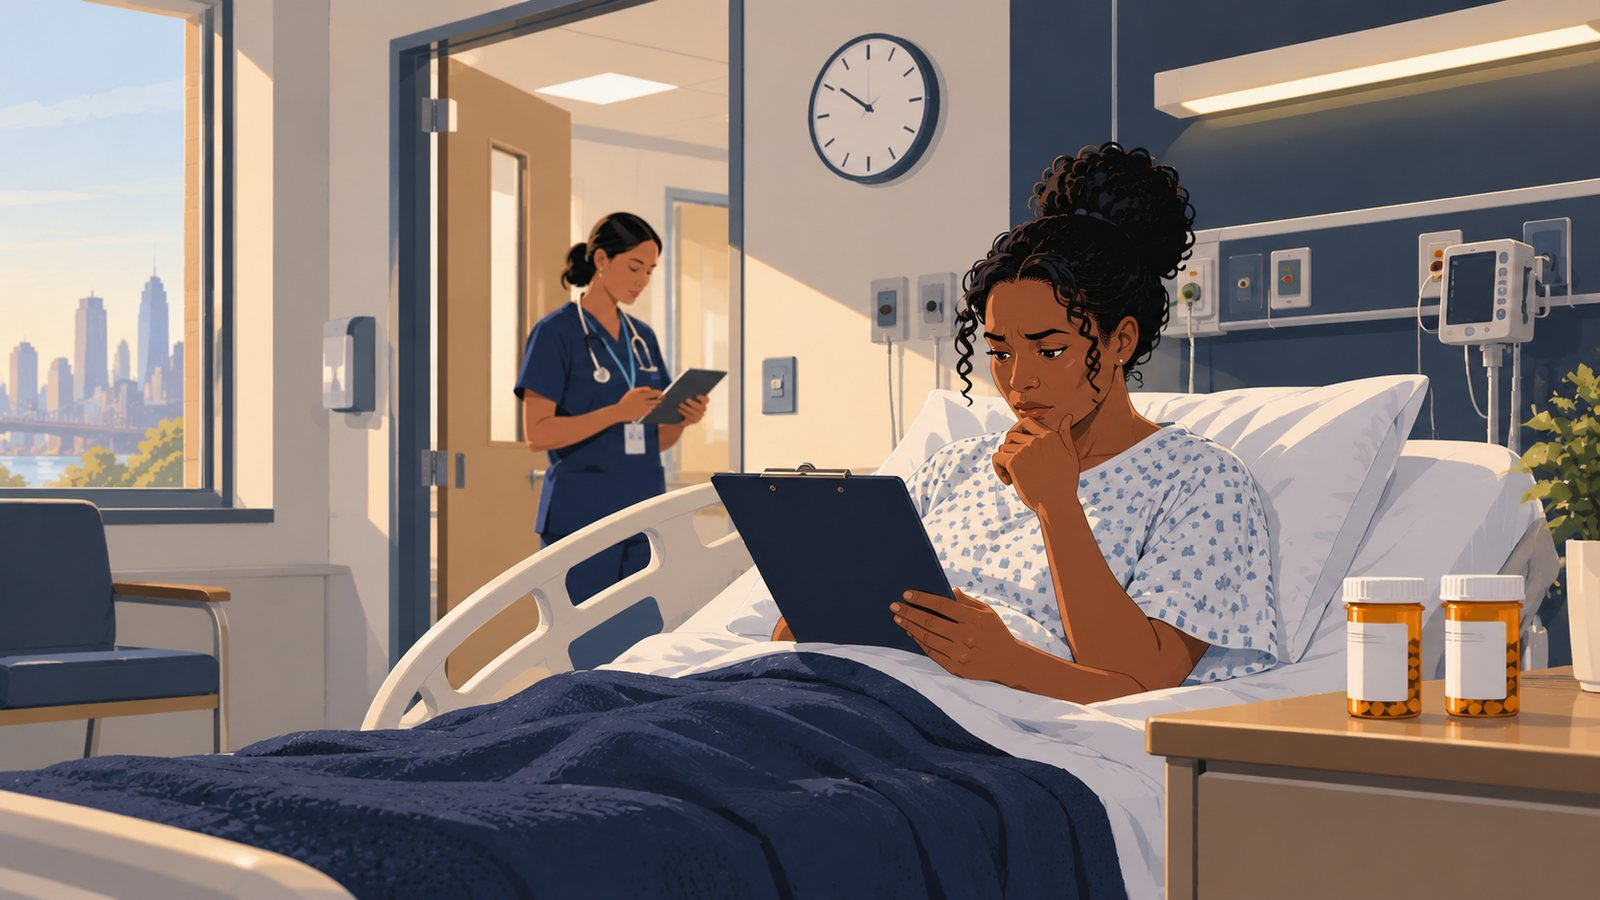
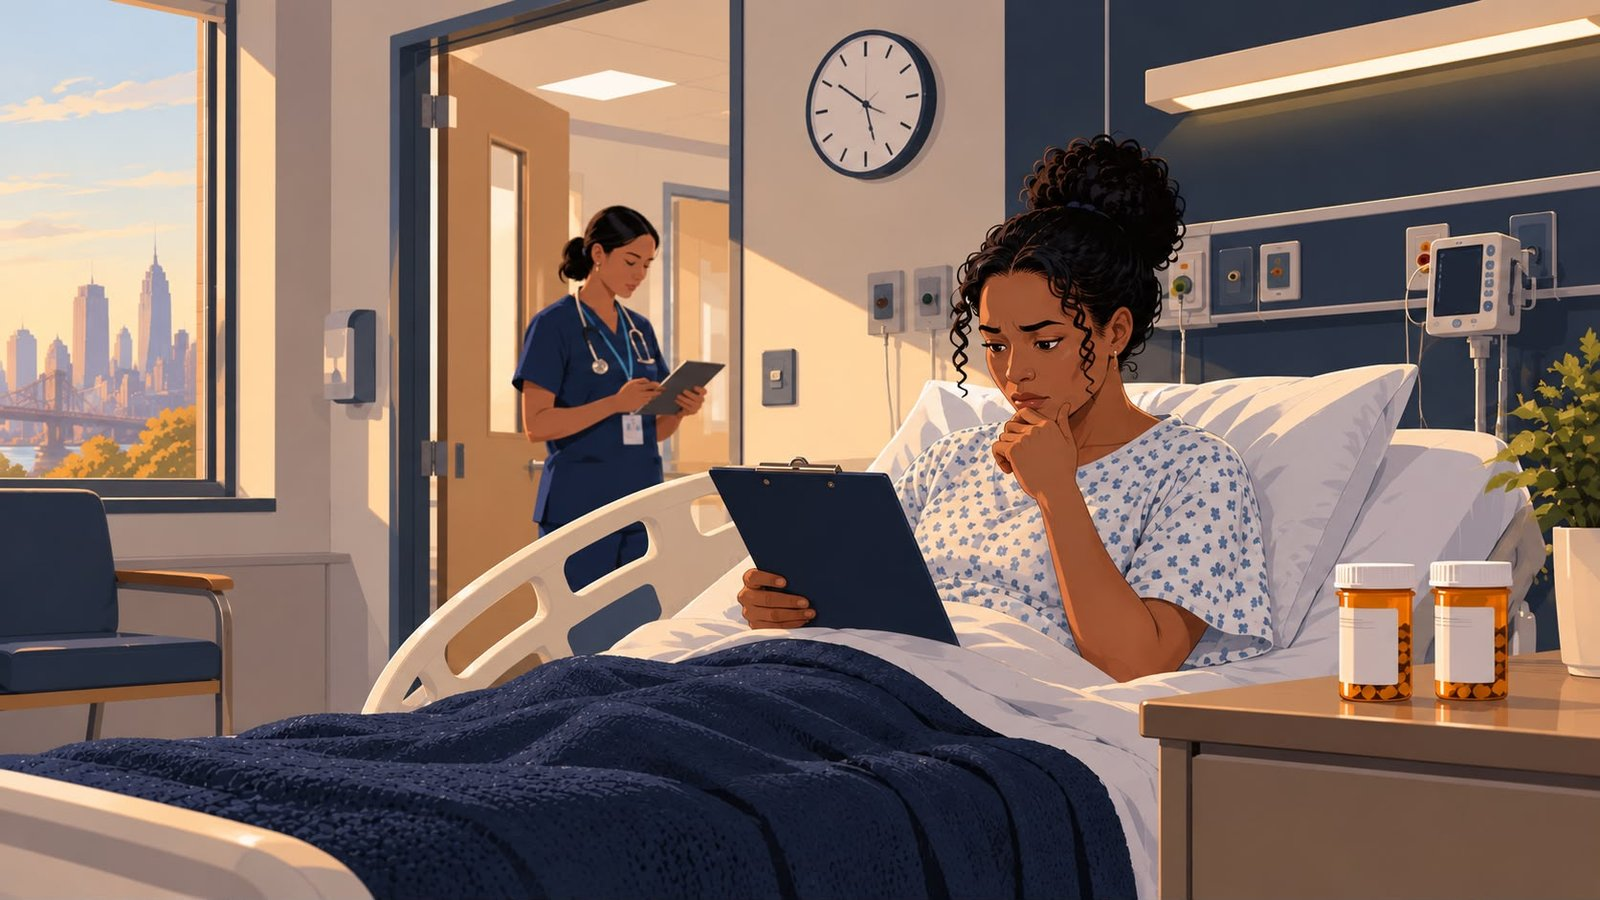
Replace three landing page illustrations (#9)
New artwork from Ms. Jackson for three of the nine landing page
illustrations:

- medical malpractice: a hospital patient studying a chart, with two
  medication bottles on the bedside table
- premises liability: an injured man on an apartment staircase, with a
  broken stair tread and a handrail coming away from a cracked wall
- slip and fall: a woman injured on an icy, cracked sidewalk outside a
  shop, with a passer-by helping

All supplied at 1672x941 and resized to 1600x900, matching the rest of
the set and the width and height already declared in the markup, so
each page reserves the same space and nothing shifts while loading.

Two images arrived labelled premises liability. Each main page has one
illustration slot and there is only one premises liability page, so
the stairwell went there and the sidewalk to slip and fall, whose
sub-pages are Sidewalk Trip and Fall and Snow and Ice Accidents.

The premises liability and slip and fall alt text described artwork no
longer on those pages and was rewritten to match. Medical malpractice
kept its existing description, which still fits.

Each file is also its page's og:image, so link previews show the new
artwork. The home page practice area cards are separate files and are
untouched.

Verified on the production build: all nine illustrations present at
1600x900, and each replaced page loads its new artwork at the declared
dimensions.

diff --git a/public/practice/premises-liability/index.html b/public/practice/premises-liability/index.html
@@ -44,7 +44,7 @@
 </header>
 <div class="hero"><div class="wrap"><p class="crumb"><a href="/">Home</a> / <a href="/practice/">Practice Areas</a> / Premises Liability</p><h1>Premises Liability Lawyers in New York and New Jersey</h1><a class="btn" href="#talk-to-a-lawyer">Get Your Free Case Evaluation</a><a class="phone" href="tel:+12125225766">Call (212) JACKSON</a></div></div>
 <main><div class="wrap">
-<figure class="page-image"><img src="/assets/img/premises-liability.jpg" alt="A resident with groceries pauses at the entrance of an apartment lobby with a leaking ceiling, a bucket, and a puddle on the floor" width="1600" height="900" loading="eager"></figure>
+<figure class="page-image"><img src="/assets/img/premises-liability.jpg" alt="An injured man sits on an apartment building staircase holding his ankle, beside a broken stair tread and a handrail pulling away from a cracked wall" width="1600" height="900" loading="eager"></figure>
 <section class="intro"><p>Property owners, landlords, and businesses must keep their property reasonably safe. When they ignore a dangerous condition and someone gets hurt, they are responsible.</p></section>
 <section>
 <h2>Dangerous Conditions We See</h2>

diff --git a/public/practice/slip-and-fall/index.html b/public/practice/slip-and-fall/index.html
@@ -44,7 +44,7 @@
 </header>
 <div class="hero"><div class="wrap"><p class="crumb"><a href="/">Home</a> / <a href="/practice/">Practice Areas</a> / Slip and Fall</p><h1>Slip and Fall Lawyers in New York and New Jersey</h1><a class="btn" href="#talk-to-a-lawyer">Get Your Free Case Evaluation</a><a class="phone" href="tel:+12125225766">Call (212) JACKSON</a></div></div>
 <main><div class="wrap">
-<figure class="page-image"><img src="/assets/img/slip-and-fall.jpg" alt="A shopper with a cart stops at the edge of a puddle leaking from a refrigerated case in a supermarket aisle with no warning sign" width="1600" height="900" loading="eager"></figure>
+<figure class="page-image"><img src="/assets/img/slip-and-fall.jpg" alt="A woman sits injured on an icy, cracked sidewalk outside a shop while a passer-by crouches to help, her spilled groceries scattered across the snow" width="1600" height="900" loading="eager"></figure>
 <section class="intro"><p>A fall can break a hip, tear a knee, or injure the spine in a second. Insurers like to treat these cases as clumsiness. The real question is simple. Was the property kept safe?</p></section>
 <section>
 <h2>Where Falls Happen</h2>
